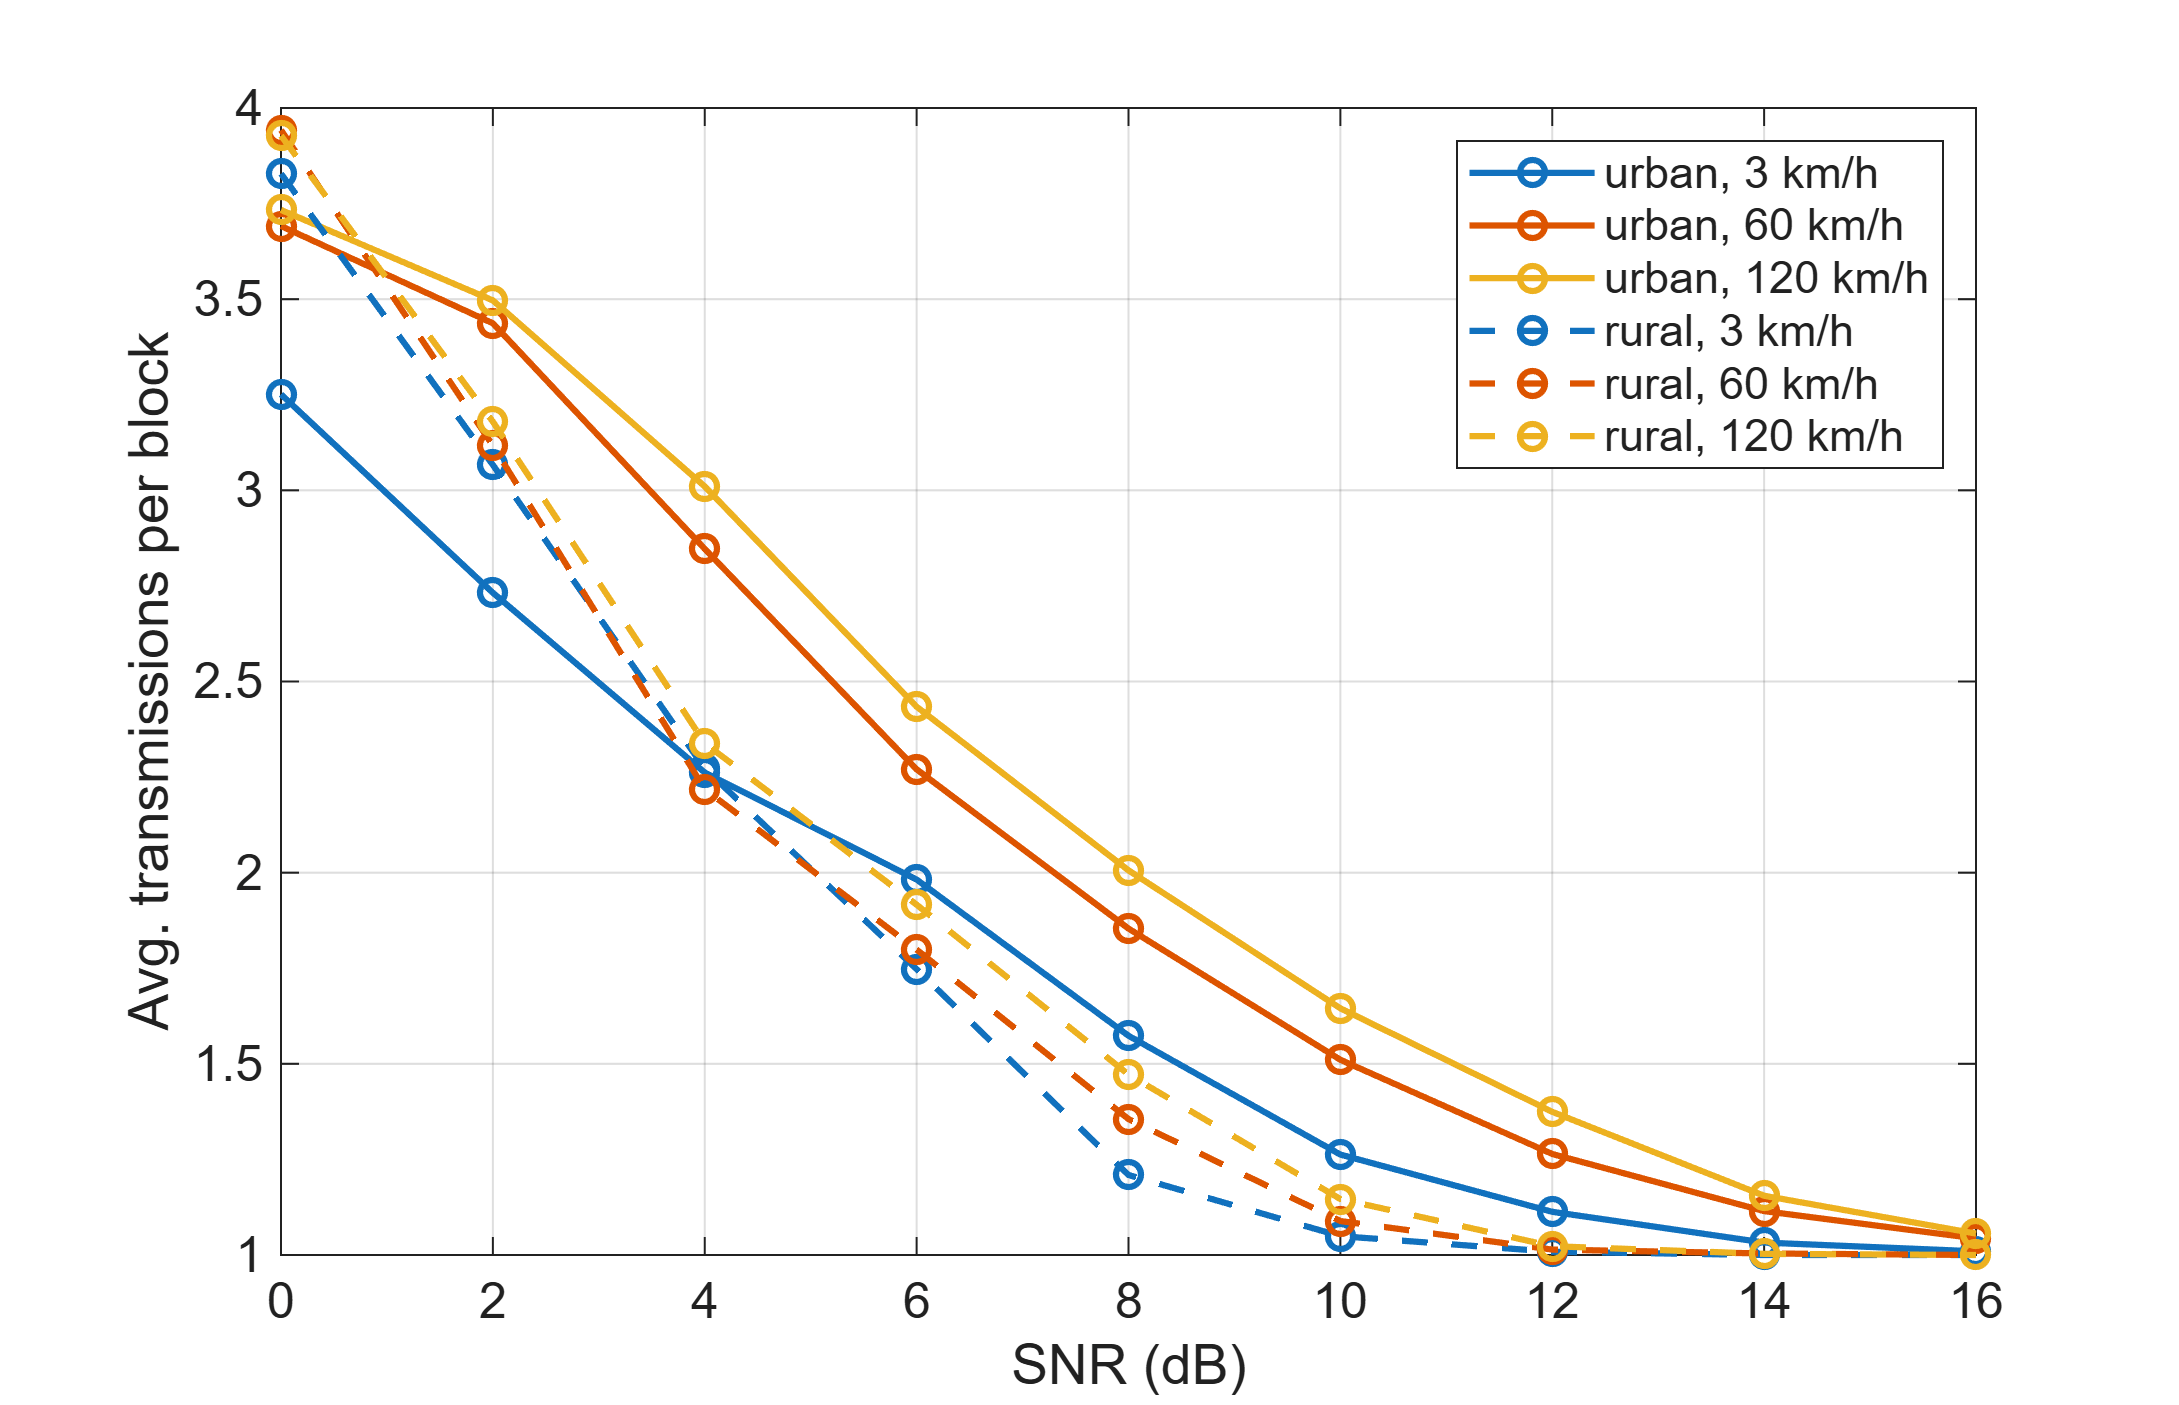
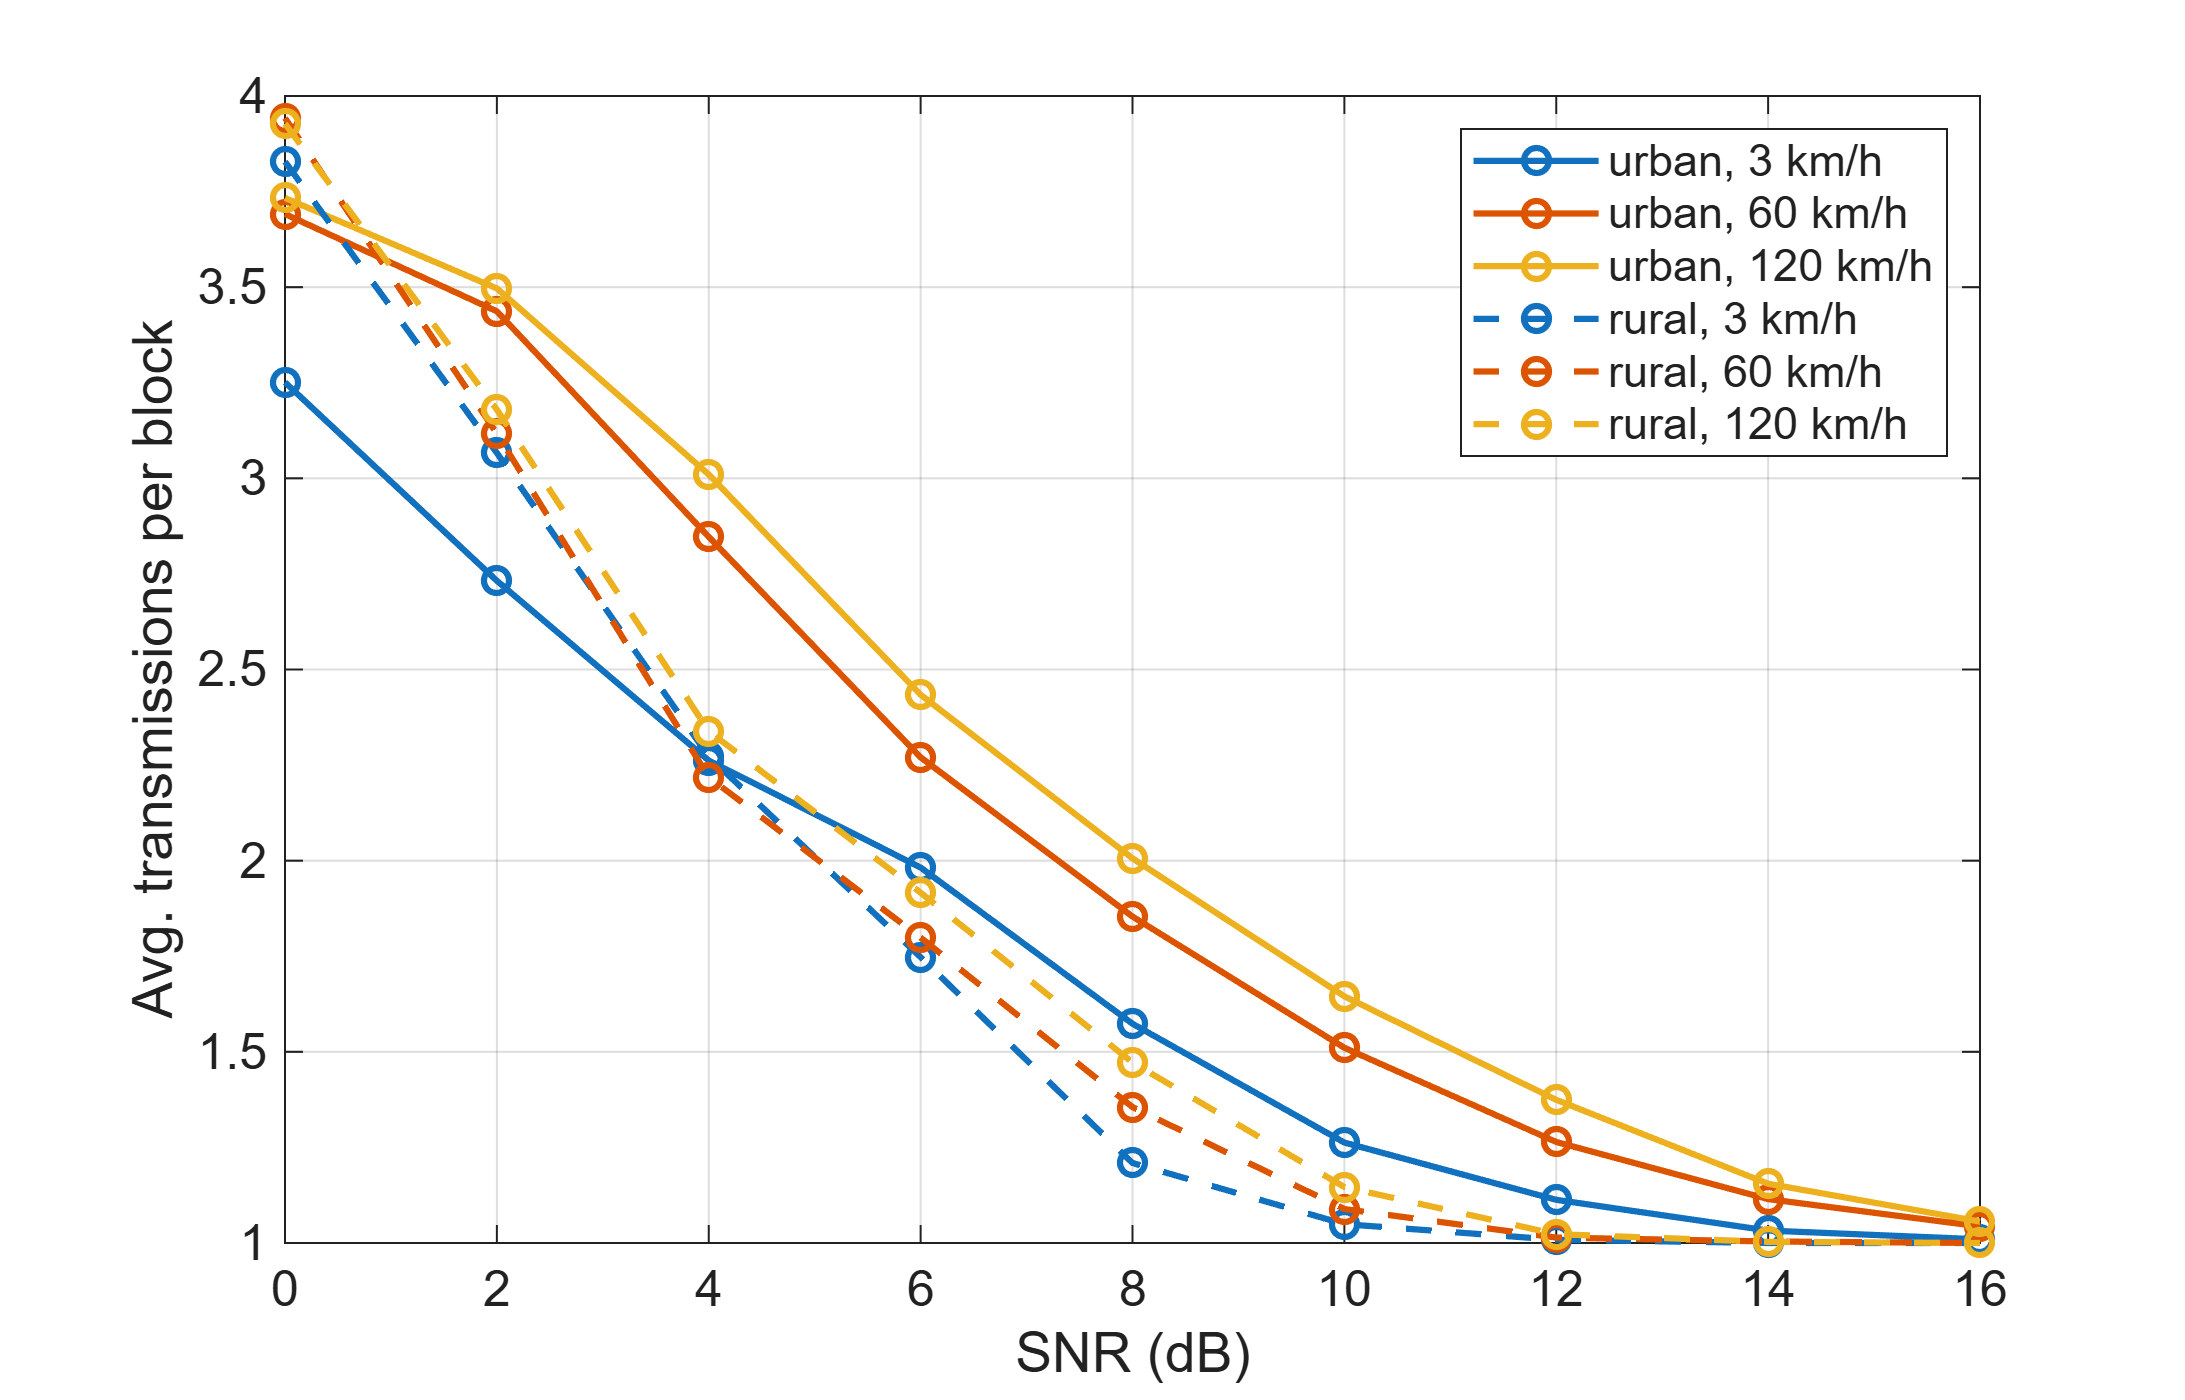
Paper-size Q3/Q4 figures (font matches report text)

diff --git a/Q34_paper_figures.m b/Q34_paper_figures.m
@@ -1,0 +1,56 @@
+% Q34_paper_figures.m
+% Re-exports the Q3/Q4 figures at their real size in the report
+cd('/MATLAB Drive/Dat610Project')
+if ~exist("Figures_paper","dir"), mkdir("Figures_paper"); end
+
+% ---- Q3 throughput ----
+close all
+Q3_plots
+paperfig(figure(1), "Figures_paper/Q3_throughput_urban.png", 3, 12, "northoutside", [])
+paperfig(figure(2), "Figures_paper/Q3_throughput_rural.png", 3, 12, "northoutside", [])
+
+% ---- Q4 throughput ----
+close all
+Q4_plots
+paperfig(figure(1), "Figures_paper/Q4_throughput_urban.png", 3, 12, "northoutside", [])
+paperfig(figure(2), "Figures_paper/Q4_throughput_rural.png", 3, 12, "northoutside", [])
+
+% ---- Q3 + Q4 latency ----
+close all
+Q34_latency_plots
+paperfig(figure(1), "Figures_paper/Q3_latency.png", 2, 20, "northeast", [0 36])
+paperfig(figure(2), "Figures_paper/Q4_latency.png", 2, 14, "northeast", [0 36])
+
+close all
+disp("Done: 6 figures saved in Figures_paper/")
+
+
+function paperfig(fig, fileName, nCols, tokLen, legLoc, yLim)
+% 5.8 cm wide = 0.32\textwidth in the IEEE two-column template
+set(fig, "Color", "w");
+ax = findall(fig, "Type", "axes");
+set(ax, "FontSize", 8, "LineWidth", 0.5, ...
+    "XTick", 0:4:16, "XTickLabelRotation", 0);
+set(findall(fig, "Type", "line"), "LineWidth", 1, "MarkerSize", 3);
+if ~isempty(yLim)
+    ylim(ax, yLim);              % extra room at the top for the legend
+    set(ax, "YTick", 0:10:30);
+end
+
+% Short legend labels
+lg = findall(fig, "Type", "legend");
+s = string(lg.String);
+s = replace(s, " iterations", " it.");
+s = replace(s, ", HARQ ", ", ");
+lg.String = s;
+set(lg, "FontSize", 6, "Location", legLoc, ...
+    "NumColumns", nCols, "Box", "off", "ItemTokenSize", [tokLen 6]);
+
+% Same plot area in all figures
+set(ax, "Position", [0.16 0.17 0.79 0.58]);
+
+% Print at the exact paper size
+set(fig, "PaperUnits", "centimeters", "PaperPosition", [0 0 5.8 5.2], ...
+    "PaperSize", [5.8 5.2]);
+print(fig, fileName, "-dpng", "-r300");
+end
